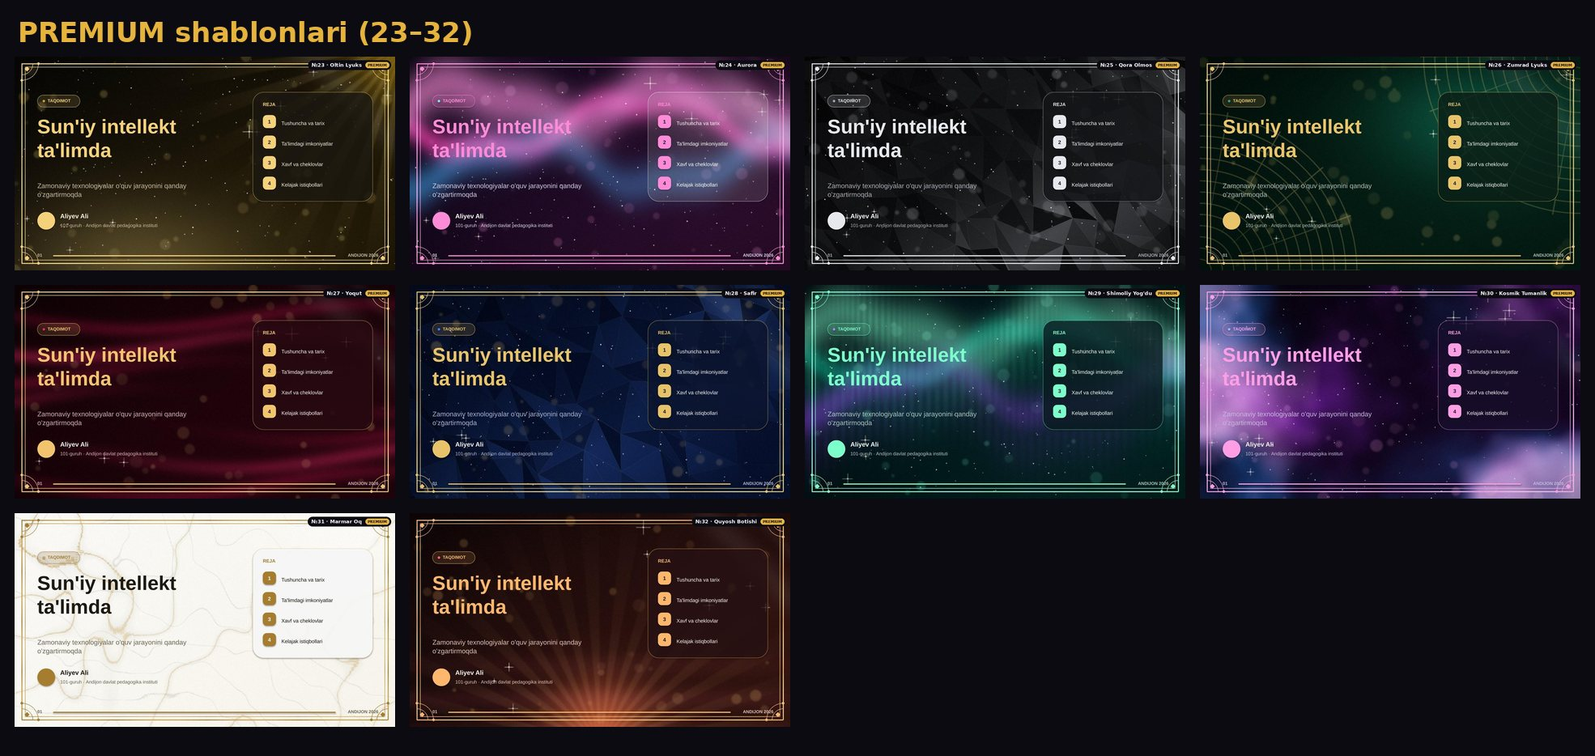
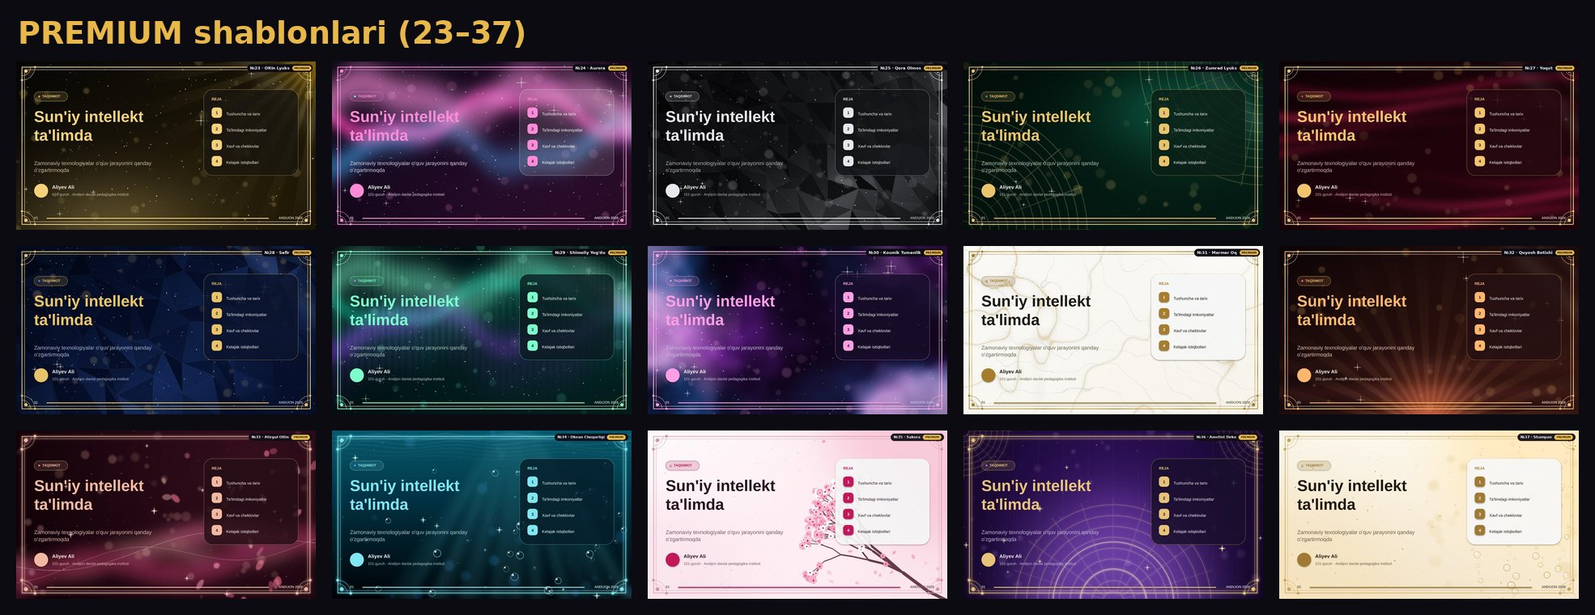
5 ta yangi Premium shablon (33–37) + Mini App Android uchun yengil rejim
- №33 Atirgul Oltin, №34 Okean Chuqurligi, №35 Sakura, №36 Ametist Deko, №37 Shampan:
  fonlar (bg_t/bg_c/bg_a4), prevyular, Premium varag'i 23–37, muqova varag'i 3 (33–37)
- Premium endi 23–37; matnlar, Mini App galereya va tanlash 37 gacha
- Android/sekin telefonlar: html.lite — blur, backdrop-filter va cheksiz animatsiyalar o'chadi
  (iPhone ko'rinishi o'zgarmaydi)
- Galereyada kichik prevyular (th_s/th_c, ~20 KB) — 1280px rasmlar o'rniga, xotira tejaladi

Claude-Session: https://claude.ai/code/session_0188Br2CkZvap1DSpsvuBfqa

diff --git a/index.html b/index.html
@@ -5,6 +5,17 @@
 <meta name="viewport" content="width=device-width, initial-scale=1, maximum-scale=1, user-scalable=no">
 <title>Birzumda Taqdimot</title>
 <script src="https://telegram.org/js/telegram-web-app.js"></script>
+<script>
+/* Android (ayniqsa arzon telefonlar) — yengil rejim: blur, backdrop-filter va cheksiz animatsiyalar o'chadi */
+(function () {
+  try {
+    var ua = navigator.userAgent || '', tw = window.Telegram && Telegram.WebApp;
+    var android = /Android/i.test(ua) || (tw && tw.platform === 'android');
+    var weak = /LOW_PERFORMANCE/i.test(ua) || (navigator.deviceMemory && navigator.deviceMemory <= 2);  // iPhone'ga tegmaydi
+    if (android || weak) document.documentElement.classList.add('lite');
+  } catch (e) {}
+})();
+</script>
 <style>
 :root{--h0B0710:#0B0710;--h0B0812:#0B0812;--h120D1C:#120D1C;--h160F24:#160F24;--h1C1430:#1C1430;--h24173A:#24173A;--h2A1F3E:#2A1F3E;--h2E1F4A:#2E1F4A;--h33264D:#33264D;--h3A2A57:#3A2A57;--h3B0F6E:#3B0F6E;--h4C1D95:#4C1D95;--h5A189A:#5A189A;--h5A2A6E:#5A2A6E;--h6A1FB0:#6A1FB0;--h7B2CBF:#7B2CBF;--h7B3FD0:#7B3FD0;--h8B4DFF:#8B4DFF;--h9B2FB0:#9B2FB0;--h9B5CFF:#9B5CFF;--hA06BFF:#A06BFF;--hB48CFF:#B48CFF;--hB9AECB:#B9AECB;--hC9A6FF:#C9A6FF;--hEDE3FF:#EDE3FF;--hF2ECFA:#F2ECFA;--hFF4FD8:#FF4FD8;--hFF5FC8:#FF5FC8;--hFF8FDA:#FF8FDA;--r106_31_176:106,31,176;--r139_77_255:139,77,255;--r160_107_255:160,107,255;--r20_14_32:20,14,32;--r255_255_255:255,255,255;--r255_80_200:255,80,200;--r255_95_200:255,95,200;--r28_20_44:28,20,44;--r5_3_10:5,3,10;--bg:var(--h0B0812);--card:rgba(var(--r28_20_44),.78);--line:var(--h33264D);--a:var(--hA06BFF);--a2:var(--h6A1FB0);--pk:var(--hFF5FC8);--t:var(--hF2ECFA);--m:var(--hB9AECB)}
 *{box-sizing:border-box;margin:0;padding:0;-webkit-tap-highlight-color:transparent}
@@ -233,6 +244,23 @@ html[data-theme="light"] input,html[data-theme="light"] textarea,html[data-theme
 .page.on{animation:pgin .38s cubic-bezier(.2,.8,.2,1)}
 @keyframes pgin{from{opacity:0;transform:translateY(14px)}to{opacity:1;transform:none}}
 html[data-anim="off"] *,html[data-anim="off"] *:before,html[data-anim="off"] *:after{animation:none!important;transition:none!important}
+/* === Android / sekin telefon: yengil rejim (html.lite) === */
+html.lite .orb{filter:none!important;animation:none!important;opacity:.5}
+html.lite .o1{background:radial-gradient(circle,var(--h7B2CBF) 0,rgba(0,0,0,0) 68%)}
+html.lite .o2{background:radial-gradient(circle,var(--hFF4FD8) 0,rgba(0,0,0,0) 68%);opacity:.22}
+html.lite .o3{background:radial-gradient(circle,var(--h4C1D95) 0,rgba(0,0,0,0) 68%);opacity:.35}
+html.lite .card,html.lite nav{backdrop-filter:none!important;-webkit-backdrop-filter:none!important}
+html.lite nav{background:rgba(var(--r20_14_32),.97)!important}
+html.lite[data-theme="light"] nav{background:rgba(255,255,255,.98)!important}
+html.lite *,html.lite *::before,html.lite *::after{animation-iteration-count:1!important}
+html.lite .btn::after,html.lite .hero .ring,html.lite .mock .glo,html.lite .bar,html.lite .spark,html.lite .total,html.lite h1 .grad,
+html.lite .logo,html.lite .pk div.hi,html.lite .chip.hot{animation:none!important}
+html.lite .btn{box-shadow:0 6px 16px rgba(var(--r139_77_255),.35)}
+html.lite .btn,html.lite .card,html.lite .tile,html.lite .chip,html.lite .plan,html.lite .sw,html.lite .fl,html.lite nav button,html.lite .tp,html.lite .pk div{transition:transform .15s ease!important}
+html.lite .pressed{filter:none!important}
+html.lite .tp.lk{filter:none;opacity:.38}
+html.lite .slider img{transition:opacity .4s!important;transform:none!important}
+.tp img{background:var(--h160F24);height:auto}
 </style>
 </head>
 <body>
@@ -374,7 +402,7 @@ const tg = window.Telegram ? Telegram.WebApp : null;
 if (tg) { tg.ready(); tg.expand(); try { tg.setHeaderColor('#0B0812'); tg.setBackgroundColor('#0B0812'); } catch (e) {} }
 let hap = t => { try { tg && tg.HapticFeedback.impactOccurred(t || 'light'); } catch (e) {} };
 const T = {
-  uz: { photoHint: "Rasmlaringizni (galereyadan) buyurtmadan keyin botga yuborasiz — ishga qo'yib beramiz", lTpl: "🎨 Dizayn shabloni", tplHint: "Tanlamasangiz — bot keyin so'raydi", tplTitle: "Dizayn shablonlari", tplSlides: "🖼 Slayd", tplCovers: "📄 Muqova", tplGalHint: "Buyurtma berishda o'zingizga yoqqanini tanlaysiz", tplNames: ["Oq Klassik", "Moviy Osmon", "Yashil Bahor", "Pushti Pastel", "Quyoshli Sariq", "Lavanda", "Kulrang Minimal", "Akademik Ko'k", "Shaftoli", "Yalpiz", "Qizil Klassik", "Tungi Minimal", "Binafsha Neon", "Ko'k Kosmos", "Yashil Zumrad", "Qizil Olov", "Firuza Neon", "Pushti Neon", "Sariq Elektr", "Kiber Ko'k-Pushti", "Oq Premium", "Pastel Orzu", "Oltin Lyuks", "Aurora", "Qora Olmos", "Zumrad Lyuks", "Yoqut", "Safir", "Shimoliy Yog'du", "Kosmik Tumanlik", "Marmar Oq", "Quyosh Botishi"], tplLock: "🔒 Bu shablon yuqoriroq paketda ochiladi", tplUp: "🔒 yuqori paketda",
+  uz: { photoHint: "Rasmlaringizni (galereyadan) buyurtmadan keyin botga yuborasiz — ishga qo'yib beramiz", lTpl: "🎨 Dizayn shabloni", tplHint: "Tanlamasangiz — bot keyin so'raydi", tplTitle: "Dizayn shablonlari", tplSlides: "🖼 Slayd", tplCovers: "📄 Muqova", tplGalHint: "Buyurtma berishda o'zingizga yoqqanini tanlaysiz", tplNames: ["Oq Klassik", "Moviy Osmon", "Yashil Bahor", "Pushti Pastel", "Quyoshli Sariq", "Lavanda", "Kulrang Minimal", "Akademik Ko'k", "Shaftoli", "Yalpiz", "Qizil Klassik", "Tungi Minimal", "Binafsha Neon", "Ko'k Kosmos", "Yashil Zumrad", "Qizil Olov", "Firuza Neon", "Pushti Neon", "Sariq Elektr", "Kiber Ko'k-Pushti", "Oq Premium", "Pastel Orzu", "Oltin Lyuks", "Aurora", "Qora Olmos", "Zumrad Lyuks", "Yoqut", "Safir", "Shimoliy Yog'du", "Kosmik Tumanlik", "Marmar Oq", "Quyosh Botishi", "Atirgul Oltin", "Okean Chuqurligi", "Sakura", "Ametist Deko", "Shampan"], tplLock: "🔒 Bu shablon yuqoriroq paketda ochiladi", tplUp: "🔒 yuqori paketda",
     turtleAdd: "🐢 Toshbaqa o'qituvchi qo'shish", turtleBadge: '👩🏫 Pro · Premium · 🎓 +50 000', close: 'Yopish', heroK: 'Professional dizayn', heroH: 'Chiroyli ishlar<br><span class="grad">bir zumda</span>', heroP: "— o'z vaqtida, bepul tuzatish bilan.",
     chipAud: '🎓 Talaba · 👩🏫 Ustoz ›', chipFast: '⚡ Tez ›', chipFix: '🔁 Bepul tuzatish ›', chipTurtle: "🐢 Toshbaqa o'qituvchi ›", orderBtn: '🛒 Buyurtma berish',
     prices: 'Narxlar', students: '🎓 Talabalar', teachers: '👩🏫 Ustozlar', priceNote: '⚡ Shoshilinch: +50% · 🔁 Tuzatish bepul · 🐢 ustozlarga Pro/Premium, talabalarga +50 000',
@@ -393,7 +421,7 @@ const T = {
       tez: { t: '⚡ Tez tayyorlash', b: "<p><b>Oddiy muddat</b> (to'lovdan keyin): Start — 3 soat, Professional — 6 soat, Premium — 12 soat.</p><p><b>Shoshilinch (+50%):</b> 1–2 soatda tayyor. Buyurtmada «⚡ Shoshilinch» ni tanlang.</p><p>🌙 Kechasi (22:00 dan keyin) to'langan buyurtmalar ertalab 10:00 gacha tayyor bo'ladi.</p>" },
       fix: { t: '🔁 Bepul tuzatish', b: "<p>Ish tayyor bo'lgach, nimanidir o'zgartirmoqchi bo'lsangiz — bepul tuzatamiz.</p><p><b>Start</b> — 1 marta, <b>Professional</b> — 2 marta, <b>Premium</b> — 3 marta. Boshqa xizmatlarda — 1 marta.</p>" },
       turtle: { t: "🐢 Toshbaqa o'qituvchi", b: "<p>Slaydda animatsion toshbaqa o'qituvchi paydo bo'ladi va <b>gapirib</b>, mavzuni sodda tilda tushuntiradi.</p><p>👩🏫 <b>Ustozlarga</b> — Professional va Premium paketlarga kiradi.<br>🎓 <b>Talabalarga</b> — xohlasangiz, buyurtmada qo'shasiz: <b>+50 000 so'm</b>.</p>" } } },
-  ru: { photoHint: "Свои фото (из галереи) отправите боту после заказа — вставим их в работу", lTpl: "🎨 Шаблон дизайна", tplHint: "Не выберете — бот спросит позже", tplTitle: "Шаблоны дизайна", tplSlides: "🖼 Слайды", tplCovers: "📄 Обложки", tplGalHint: "Понравившийся выберете при заказе", tplNames: ["Белая классика", "Голубое небо", "Весенняя зелень", "Розовая пастель", "Солнечный жёлтый", "Лаванда", "Серый минимализм", "Академический синий", "Персик", "Мята", "Красная классика", "Ночной минимализм", "Фиолетовый неон", "Синий космос", "Изумрудный неон", "Красный огонь", "Бирюзовый неон", "Розовый неон", "Электро-жёлтый", "Кибер синий-розовый", "Белый премиум", "Пастельная мечта", "Золотой люкс", "Аврора", "Чёрный бриллиант", "Изумрудный люкс", "Рубин", "Сапфир", "Северное сияние", "Космическая туманность", "Белый мрамор", "Закат"], tplLock: "🔒 Этот шаблон открывается в старшем пакете", tplUp: "🔒 в старшем пакете",
+  ru: { photoHint: "Свои фото (из галереи) отправите боту после заказа — вставим их в работу", lTpl: "🎨 Шаблон дизайна", tplHint: "Не выберете — бот спросит позже", tplTitle: "Шаблоны дизайна", tplSlides: "🖼 Слайды", tplCovers: "📄 Обложки", tplGalHint: "Понравившийся выберете при заказе", tplNames: ["Белая классика", "Голубое небо", "Весенняя зелень", "Розовая пастель", "Солнечный жёлтый", "Лаванда", "Серый минимализм", "Академический синий", "Персик", "Мята", "Красная классика", "Ночной минимализм", "Фиолетовый неон", "Синий космос", "Изумрудный неон", "Красный огонь", "Бирюзовый неон", "Розовый неон", "Электро-жёлтый", "Кибер синий-розовый", "Белый премиум", "Пастельная мечта", "Золотой люкс", "Аврора", "Чёрный бриллиант", "Изумрудный люкс", "Рубин", "Сапфир", "Северное сияние", "Космическая туманность", "Белый мрамор", "Закат", "Розовое золото", "Глубина океана", "Сакура", "Аметист Деко", "Шампань"], tplLock: "🔒 Этот шаблон открывается в старшем пакете", tplUp: "🔒 в старшем пакете",
     turtleAdd: "🐢 Добавить черепаху-учителя", turtleBadge: '👩🏫 Pro · Premium · 🎓 +50 000', close: 'Закрыть', heroK: 'Профессиональный дизайн', heroH: 'Красивые работы<br><span class="grad">в один миг</span>', heroP: '— вовремя, с бесплатными правками.',
     chipAud: '🎓 Студент · 👩🏫 Преподаватель ›', chipFast: '⚡ Срочно ›', chipFix: '🔁 Бесплатные правки ›', chipTurtle: '🐢 Черепаха-учитель ›', orderBtn: '🛒 Заказать',
     prices: 'Цены', students: '🎓 Студентам', teachers: '👩🏫 Преподавателям', priceNote: '⚡ Срочно: +50% · 🔁 Правки бесплатно · 🐢 учителям Pro/Premium, студентам +50 000',
@@ -412,7 +440,7 @@ const T = {
       tez: { t: '⚡ Срочно', b: '<p><b>Обычный срок</b> (после оплаты): Start — 3 часа, Professional — 6 часов, Premium — 12 часов.</p><p><b>Срочно (+50%):</b> готово за 1–2 часа. Выберите «⚡ Срочно» в заказе.</p><p>🌙 Заказы, оплаченные ночью (после 22:00), будут готовы к 10:00 утра.</p>' },
       fix: { t: '🔁 Бесплатные правки', b: '<p>Если после сдачи захотите что-то изменить — поправим бесплатно.</p><p><b>Start</b> — 1 раз, <b>Professional</b> — 2 раза, <b>Premium</b> — 3 раза. В остальных услугах — 1 раз.</p>' },
       turtle: { t: '🐢 Черепаха-учитель', b: '<p>На слайдах появляется анимированная черепаха-учитель и <b>голосом</b> простыми словами объясняет тему.</p><p>👩🏫 <b>Преподавателям</b> — входит в пакеты Professional и Premium.<br>🎓 <b>Студентам</b> — по желанию при заказе: <b>+50 000 сум</b>.</p>' } } },
-  en: { photoHint: "Send your photos (from gallery) to the bot after ordering — we'll put them into the work", lTpl: "🎨 Design template", tplHint: "Skip it — the bot will ask later", tplTitle: "Design templates", tplSlides: "🖼 Slides", tplCovers: "📄 Covers", tplGalHint: "Pick the one you like when ordering", tplNames: ["White Classic", "Sky Blue", "Spring Green", "Pink Pastel", "Sunny Yellow", "Lavender", "Gray Minimal", "Academic Navy", "Peach", "Mint", "Classic Red", "Night Minimal", "Purple Neon", "Blue Cosmos", "Emerald Neon", "Red Fire", "Teal Neon", "Pink Neon", "Electric Yellow", "Cyber Blue-Pink", "White Premium", "Pastel Dream", "Gold Luxe", "Aurora", "Black Diamond", "Emerald Luxe", "Ruby", "Sapphire", "Northern Lights", "Cosmic Nebula", "White Marble", "Sunset"], tplLock: "🔒 This template unlocks in a higher package", tplUp: "🔒 higher package",
+  en: { photoHint: "Send your photos (from gallery) to the bot after ordering — we'll put them into the work", lTpl: "🎨 Design template", tplHint: "Skip it — the bot will ask later", tplTitle: "Design templates", tplSlides: "🖼 Slides", tplCovers: "📄 Covers", tplGalHint: "Pick the one you like when ordering", tplNames: ["White Classic", "Sky Blue", "Spring Green", "Pink Pastel", "Sunny Yellow", "Lavender", "Gray Minimal", "Academic Navy", "Peach", "Mint", "Classic Red", "Night Minimal", "Purple Neon", "Blue Cosmos", "Emerald Neon", "Red Fire", "Teal Neon", "Pink Neon", "Electric Yellow", "Cyber Blue-Pink", "White Premium", "Pastel Dream", "Gold Luxe", "Aurora", "Black Diamond", "Emerald Luxe", "Ruby", "Sapphire", "Northern Lights", "Cosmic Nebula", "White Marble", "Sunset", "Rose Gold", "Deep Ocean", "Sakura", "Amethyst Deco", "Champagne"], tplLock: "🔒 This template unlocks in a higher package", tplUp: "🔒 higher package",
     turtleAdd: "🐢 Add the Turtle teacher", turtleBadge: '👩🏫 Pro · Premium · 🎓 +50 000', close: 'Close', heroK: 'Professional design', heroH: 'Beautiful work<br><span class="grad">in a flash</span>', heroP: '— on time, with free revisions.',
     chipAud: '🎓 Student · 👩🏫 Teacher ›', chipFast: '⚡ Fast ›', chipFix: '🔁 Free revisions ›', chipTurtle: '🐢 Turtle teacher ›', orderBtn: '🛒 Place an order',
     prices: 'Prices', students: '🎓 Students', teachers: '👩🏫 Teachers', priceNote: '⚡ Urgent: +50% · 🔁 Free revisions · 🐢 teachers Pro/Premium, students +50 000',
@@ -522,12 +550,12 @@ function pick(a, svc) { aud = a; order = { aud: a, svc, pkg: '', deadline: 'norm
 const turtleAvail = () => order.aud === 's' && order.svc === 'taqdimot';
 const TPL_KIND = { taqdimot: 's', dars: 's', tadbir: 's', portfolio: 's', mustaqil: 'c', kurs: 'c', maqola: 'c', amaliy: 'c', referat: 'c', oum: 'c', ishlanma: 'c', test: 'c' };
 const tplKind = () => TPL_KIND[order.svc] || '';
-const TIERS = { start: [1, 12], pro: [13, 22], premium: [23, 32] };
+const TIERS = { start: [1, 12], pro: [13, 22], premium: [23, 37] };
 const TIER_NAME = { start: 'START', pro: 'PRO', premium: 'PREMIUM' };
 const tierOf = n => n <= 12 ? 'start' : n <= 22 ? 'pro' : 'premium';
-const tplMax = () => ({ start: 12, pro: 22, premium: 32 })[order.pkg] || 32;
+const tplMax = () => ({ start: 12, pro: 22, premium: 37 })[order.pkg] || 37;
 const range = (a, b) => Array.from({ length: b - a + 1 }, (_, i) => a + i);
-const tplCard = (k, n, sel, onclick, lk) => `<div class="tp ${k === 'c' ? 'c' : ''} ${sel ? 'on' : ''} ${lk ? 'lk' : ''}" onclick="${onclick}"><img loading="lazy" src="tpl_${k}${n}.jpg?v=4" alt=""><i class="${tierOf(n)}">${TIER_NAME[tierOf(n)]}</i><span>№${n} ${t('tplNames')[n - 1]}</span></div>`;
+const tplCard = (k, n, sel, onclick, lk) => `<div class="tp ${k === 'c' ? 'c' : ''} ${sel ? 'on' : ''} ${lk ? 'lk' : ''}" onclick="${onclick}"><img loading="lazy" decoding="async" width="${k === 'c' ? 224 : 384}" height="${k === 'c' ? 317 : 216}" src="th_${k}${n}.jpg?v=5" alt=""><i class="${tierOf(n)}">${TIER_NAME[tierOf(n)]}</i><span>№${n} ${t('tplNames')[n - 1]}</span></div>`;
 let galKind = 's', galTier = 'pro';
 function renderGallery() {
   const g = document.getElementById('tplGallery');
@@ -555,7 +583,7 @@ function renderOrder() {
     `<div class="opt ${order.pkg === k ? 'on' : ''}" onclick="order.pkg='${k}';hap();renderOrder()"><span><b>${pName(aud, order.svc, k)}</b><br><small style="color:var(--m)">${pDesc(aud, order.svc, k)}</small></span><span class="v">${fmt(p[1])}</span></div>`).join('');
   const kind = tplKind(); document.getElementById('tplWrap').style.display = kind ? 'block' : 'none';
   if (order.tpl && order.tpl > tplMax()) order.tpl = 0;
-  if (kind) document.getElementById('tplOpts').innerHTML = range(1, 32).map(n => n > tplMax()
+  if (kind) document.getElementById('tplOpts').innerHTML = range(1, 37).map(n => n > tplMax()
     ? tplCard(kind, n, false, `hap();toast(t('tplLock'))`, true)
     : tplCard(kind, n, order.tpl === n, `order.tpl=order.tpl===${n}?0:${n};hap();renderOrder()`)).join('');
   const tw = document.getElementById('turtleWrap'); tw.style.display = turtleAvail() ? 'block' : 'none';

diff --git a/texts.py b/texts.py
@@ -738,8 +738,8 @@ FX = {
 }
 
 
-# ------------------------------------------------------------------ 🎨 dizayn shablonlari (32 ta)
-# 1–12 Start (toza), 13–22 Professional (neon), 23–32 Premium (lyuks)
+# ------------------------------------------------------------------ 🎨 dizayn shablonlari (37 ta)
+# 1–12 Start (toza), 13–22 Professional (neon), 23–37 Premium (lyuks)
 TPL = {
     1: {"uz": "Oq Klassik", "ru": "Белая классика", "en": "White Classic"},
     2: {"uz": "Moviy Osmon", "ru": "Голубое небо", "en": "Sky Blue"},
@@ -773,14 +773,19 @@ TPL = {
     30: {"uz": "Kosmik Tumanlik", "ru": "Космическая туманность", "en": "Cosmic Nebula"},
     31: {"uz": "Marmar Oq", "ru": "Белый мрамор", "en": "White Marble"},
     32: {"uz": "Quyosh Botishi", "ru": "Закат", "en": "Sunset"},
+    33: {"uz": "Atirgul Oltin", "ru": "Розовое золото", "en": "Rose Gold"},
+    34: {"uz": "Okean Chuqurligi", "ru": "Глубина океана", "en": "Deep Ocean"},
+    35: {"uz": "Sakura", "ru": "Сакура", "en": "Sakura"},
+    36: {"uz": "Ametist Deko", "ru": "Аметист Деко", "en": "Amethyst Deco"},
+    37: {"uz": "Shampan", "ru": "Шампань", "en": "Champagne"},
 }
 TPL_TIER = {n: ("start" if n <= 12 else "pro" if n <= 22 else "premium") for n in TPL}
-TIER_MAX = {"start": 12, "pro": 22, "premium": 32}
+TIER_MAX = {"start": 12, "pro": 22, "premium": 37}
 
 
 def tpl_allowed(pkg: str) -> list:
-    """Paketga qarab ochiq shablonlar: Start 1–12, Pro 1–22, Premium 1–32 (paketsiz — hammasi)."""
-    return [n for n in TPL if n <= TIER_MAX.get(pkg or "", 32)]
+    """Paketga qarab ochiq shablonlar: Start 1–12, Pro 1–22, Premium 1–37 (paketsiz — hammasi)."""
+    return [n for n in TPL if n <= TIER_MAX.get(pkg or "", 37)]
 
 
 TPL_ANY = {"uz": "🤷 Farqi yo'q", "ru": "🤷 Неважно", "en": "🤷 No preference"}
@@ -788,16 +793,16 @@ TPL_TX = {
     "album_style": {"uz": "🎨 <b>Slayd dizayn shablonlari</b> — paketingizga ochiq uslublar. Pastdagi tugmalardan raqamini tanlang 👇",
                     "ru": "🎨 <b>Шаблоны дизайна слайдов</b> — стили, доступные в вашем пакете. Выберите номер кнопкой ниже 👇",
                     "en": "🎨 <b>Slide design templates</b> — styles open for your package. Pick a number with the buttons below 👇"},
-    "album_cover": {"uz": "📄 <b>Muqova shablonlari</b> — 32 ta uslub. Pastdagi tugmalardan raqamini tanlang 👇",
-                    "ru": "📄 <b>Шаблоны обложки</b> — 32 стиля. Выберите номер кнопкой ниже 👇",
-                    "en": "📄 <b>Cover templates</b> — 32 styles. Pick a number with the buttons below 👇"},
-    "locked": {"uz": "🔒 №{a}–32 shablonlar yuqoriroq paketda ochiladi (Professional: 1–22, Premium: 1–32).",
-               "ru": "🔒 Шаблоны №{a}–32 открываются в старшем пакете (Professional: 1–22, Premium: 1–32).",
-               "en": "🔒 Templates №{a}–32 unlock in a higher package (Professional: 1–22, Premium: 1–32)."},
-    "tiers": {"uz": "⭐ <b>Start</b> 1–12 · 💜 <b>Professional</b> 13–22 · 👑 <b>Premium</b> 23–32",
-              "ru": "⭐ <b>Start</b> 1–12 · 💜 <b>Professional</b> 13–22 · 👑 <b>Premium</b> 23–32",
-              "en": "⭐ <b>Start</b> 1–12 · 💜 <b>Professional</b> 13–22 · 👑 <b>Premium</b> 23–32"},
-    "gallery": {"uz": "🎨 <b>Dizayn shablonlari — 32 ta</b>\nBuyurtma berishda o'zingizga yoqqanini tanlaysiz.",
+    "album_cover": {"uz": "📄 <b>Muqova shablonlari</b> — 37 ta uslub. Pastdagi tugmalardan raqamini tanlang 👇",
+                    "ru": "📄 <b>Шаблоны обложки</b> — 37 стилей. Выберите номер кнопкой ниже 👇",
+                    "en": "📄 <b>Cover templates</b> — 37 styles. Pick a number with the buttons below 👇"},
+    "locked": {"uz": "🔒 №{a}–37 shablonlar yuqoriroq paketda ochiladi (Professional: 1–22, Premium: 1–37).",
+               "ru": "🔒 Шаблоны №{a}–37 открываются в старшем пакете (Professional: 1–22, Premium: 1–37).",
+               "en": "🔒 Templates №{a}–37 unlock in a higher package (Professional: 1–22, Premium: 1–37)."},
+    "tiers": {"uz": "⭐ <b>Start</b> 1–12 · 💜 <b>Professional</b> 13–22 · 👑 <b>Premium</b> 23–37",
+              "ru": "⭐ <b>Start</b> 1–12 · 💜 <b>Professional</b> 13–22 · 👑 <b>Premium</b> 23–37",
+              "en": "⭐ <b>Start</b> 1–12 · 💜 <b>Professional</b> 13–22 · 👑 <b>Premium</b> 23–37"},
+    "gallery": {"uz": "🎨 <b>Dizayn shablonlari — 37 ta</b>\nBuyurtma berishda o'zingizga yoqqanini tanlaysiz.",
                 "ru": "🎨 <b>Шаблоны дизайна</b>\nВыберете понравившийся при оформлении заказа.",
                 "en": "🎨 <b>Design templates</b>\nYou pick the one you like when ordering."},
     "btn": {"uz": "🎨 Dizayn shablonlari", "ru": "🎨 Шаблоны дизайна", "en": "🎨 Design templates"},

diff --git a/autogen.py b/autogen.py
@@ -53,7 +53,7 @@ AUTO_SERVICES = {
 }
 
 # n: name, bg, a1, a2, text, muted, card, card_alpha, border, light, title_font
-THEMES = {  # 1–12 Start · 13–22 Professional · 23–32 Premium
+THEMES = {  # 1–12 Start · 13–22 Professional · 23–37 Premium
     1: ("Oq Klassik", "FAFAF7", "1F3A68", "C8A24A", "1B2333", "5E6675", "FFFFFF", 92, "D9DEE8", True, "Arial"),
     2: ("Moviy Osmon", "F3F8FF", "1E6FE0", "38B6FF", "13233D", "56657E", "FFFFFF", 92, "CFE0F7", True, "Arial"),
     3: ("Yashil Bahor", "F4FBF5", "1F8A4C", "8BC34A", "14261A", "566B5C", "FFFFFF", 92, "CFE8D6", True, "Arial"),
@@ -86,6 +86,11 @@ THEMES = {  # 1–12 Start · 13–22 Professional · 23–32 Premium
     30: ("Kosmik Tumanlik", "07030F", "FF9EE5", "8FB8FF", "F7F1FF", "C5B8DA", "1A1030", 70, "FF9EE5", False, "Arial"),
     31: ("Marmar Oq", "FBFAF7", "A67C2E", "C9A45C", "1F1A12", "6E6452", "FFFFFF", 90, "D9C49A", True, "Arial"),
     32: ("Quyosh Botishi", "120709", "FFB86B", "FF5E7E", "FFF4EC", "E0BFB4", "2A1214", 72, "FFB86B", False, "Arial"),
+    33: ("Atirgul Oltin", "14080C", "F2B8A2", "E36F8C", "FFF2F0", "D9B3B0", "2A1017", 78, "F2B8A2", False, "Arial"),
+    34: ("Okean Chuqurligi", "02121A", "7FE7F2", "3D9BFF", "EAFDFF", "9EC6CF", "06222E", 76, "7FE7F2", False, "Arial"),
+    35: ("Sakura", "FFF7F9", "C2185B", "F48FB1", "2B1520", "7A5A66", "FFFFFF", 88, "F2B6C8", True, "Arial"),
+    36: ("Ametist Deko", "0D0716", "E6C27A", "A06CFF", "F6EEFF", "BFB2D6", "1C1030", 78, "E6C27A", False, "Arial"),
+    37: ("Shampan", "FBF6EE", "A07A35", "D9B46A", "221A0E", "6E604A", "FFFFFF", 90, "DCC596", True, "Arial"),
 }
 TIER = {n: ('start' if n <= 12 else 'pro' if n <= 22 else 'premium') for n in THEMES}
 DEFAULT_THEME = 13
@@ -236,7 +241,7 @@ def work_lang(o, client_lang: str) -> str:
     return client_lang if client_lang in LANG_NAMES else "uz"
 
 
-PKG_MAX = {"start": 12, "pro": 22, "premium": 32}
+PKG_MAX = {"start": 12, "pro": 22, "premium": 37}
 PKG_DEFAULT = {"start": 2, "pro": 13, "premium": 23}
 
 
@@ -245,7 +250,7 @@ def theme_no(o, key: str) -> int:
     pkg = (o["package"] or "") if "package" in o.keys() else ""
     m = re.search(r"№\s*(\d{1,2})", brief_dict(o).get(key, ""))
     n = int(m.group(1)) if m and int(m.group(1)) in THEMES else 0
-    if n and n > PKG_MAX.get(pkg, 32):
+    if n and n > PKG_MAX.get(pkg, 37):
         n = 0
     if not n and key == "style":
         n = PKG_DEFAULT.get(pkg, DEFAULT_THEME)

diff --git a/bot.py b/bot.py
@@ -1207,7 +1207,7 @@ def brief_label(key: str, lang: str = "uz") -> str:
 
 def brief_kb(lang: str, key: str, pkg: str = "", can_back: bool = False):
     opts = BRIEF_Q[key].get("opts", {}).get(lang, [])
-    if key in ("style", "cover"):  # 32 ta shablon — paketga ochiqlari, 4 tadan raqamli tugma
+    if key in ("style", "cover"):  # 37 ta shablon — paketga ochiqlari, 4 tadan raqamli tugma
         btns = [(f"№{n}", f"bq:o:{n - 1}", "primary") for n in tpl_allowed(pkg)]
         rows = [btns[i:i + 4] for i in range(0, len(btns), 4)]
         rows.append([(opts[-1], f"bq:o:{len(opts) - 1}", None)])
@@ -1390,9 +1390,9 @@ def ttx(lang: str, key: str) -> str:
 
 
 def tpl_sheets(kind: str, pkg: str = "") -> list:
-    """Shablon varaqlari: slayd — paket darajasigacha (start/pro/premium), muqova — 2 ta varaq."""
+    """Shablon varaqlari: slayd — paket darajasigacha (start/pro/premium), muqova — 3 ta varaq."""
     if kind == "c":
-        names = ["tpl_csheet1.jpg", "tpl_csheet2.jpg"]
+        names = ["tpl_csheet1.jpg", "tpl_csheet2.jpg", "tpl_csheet3.jpg"]
     else:
         tiers = ["start", "pro", "premium"]
         top = {"start": 1, "pro": 2}.get(pkg or "", 3)
